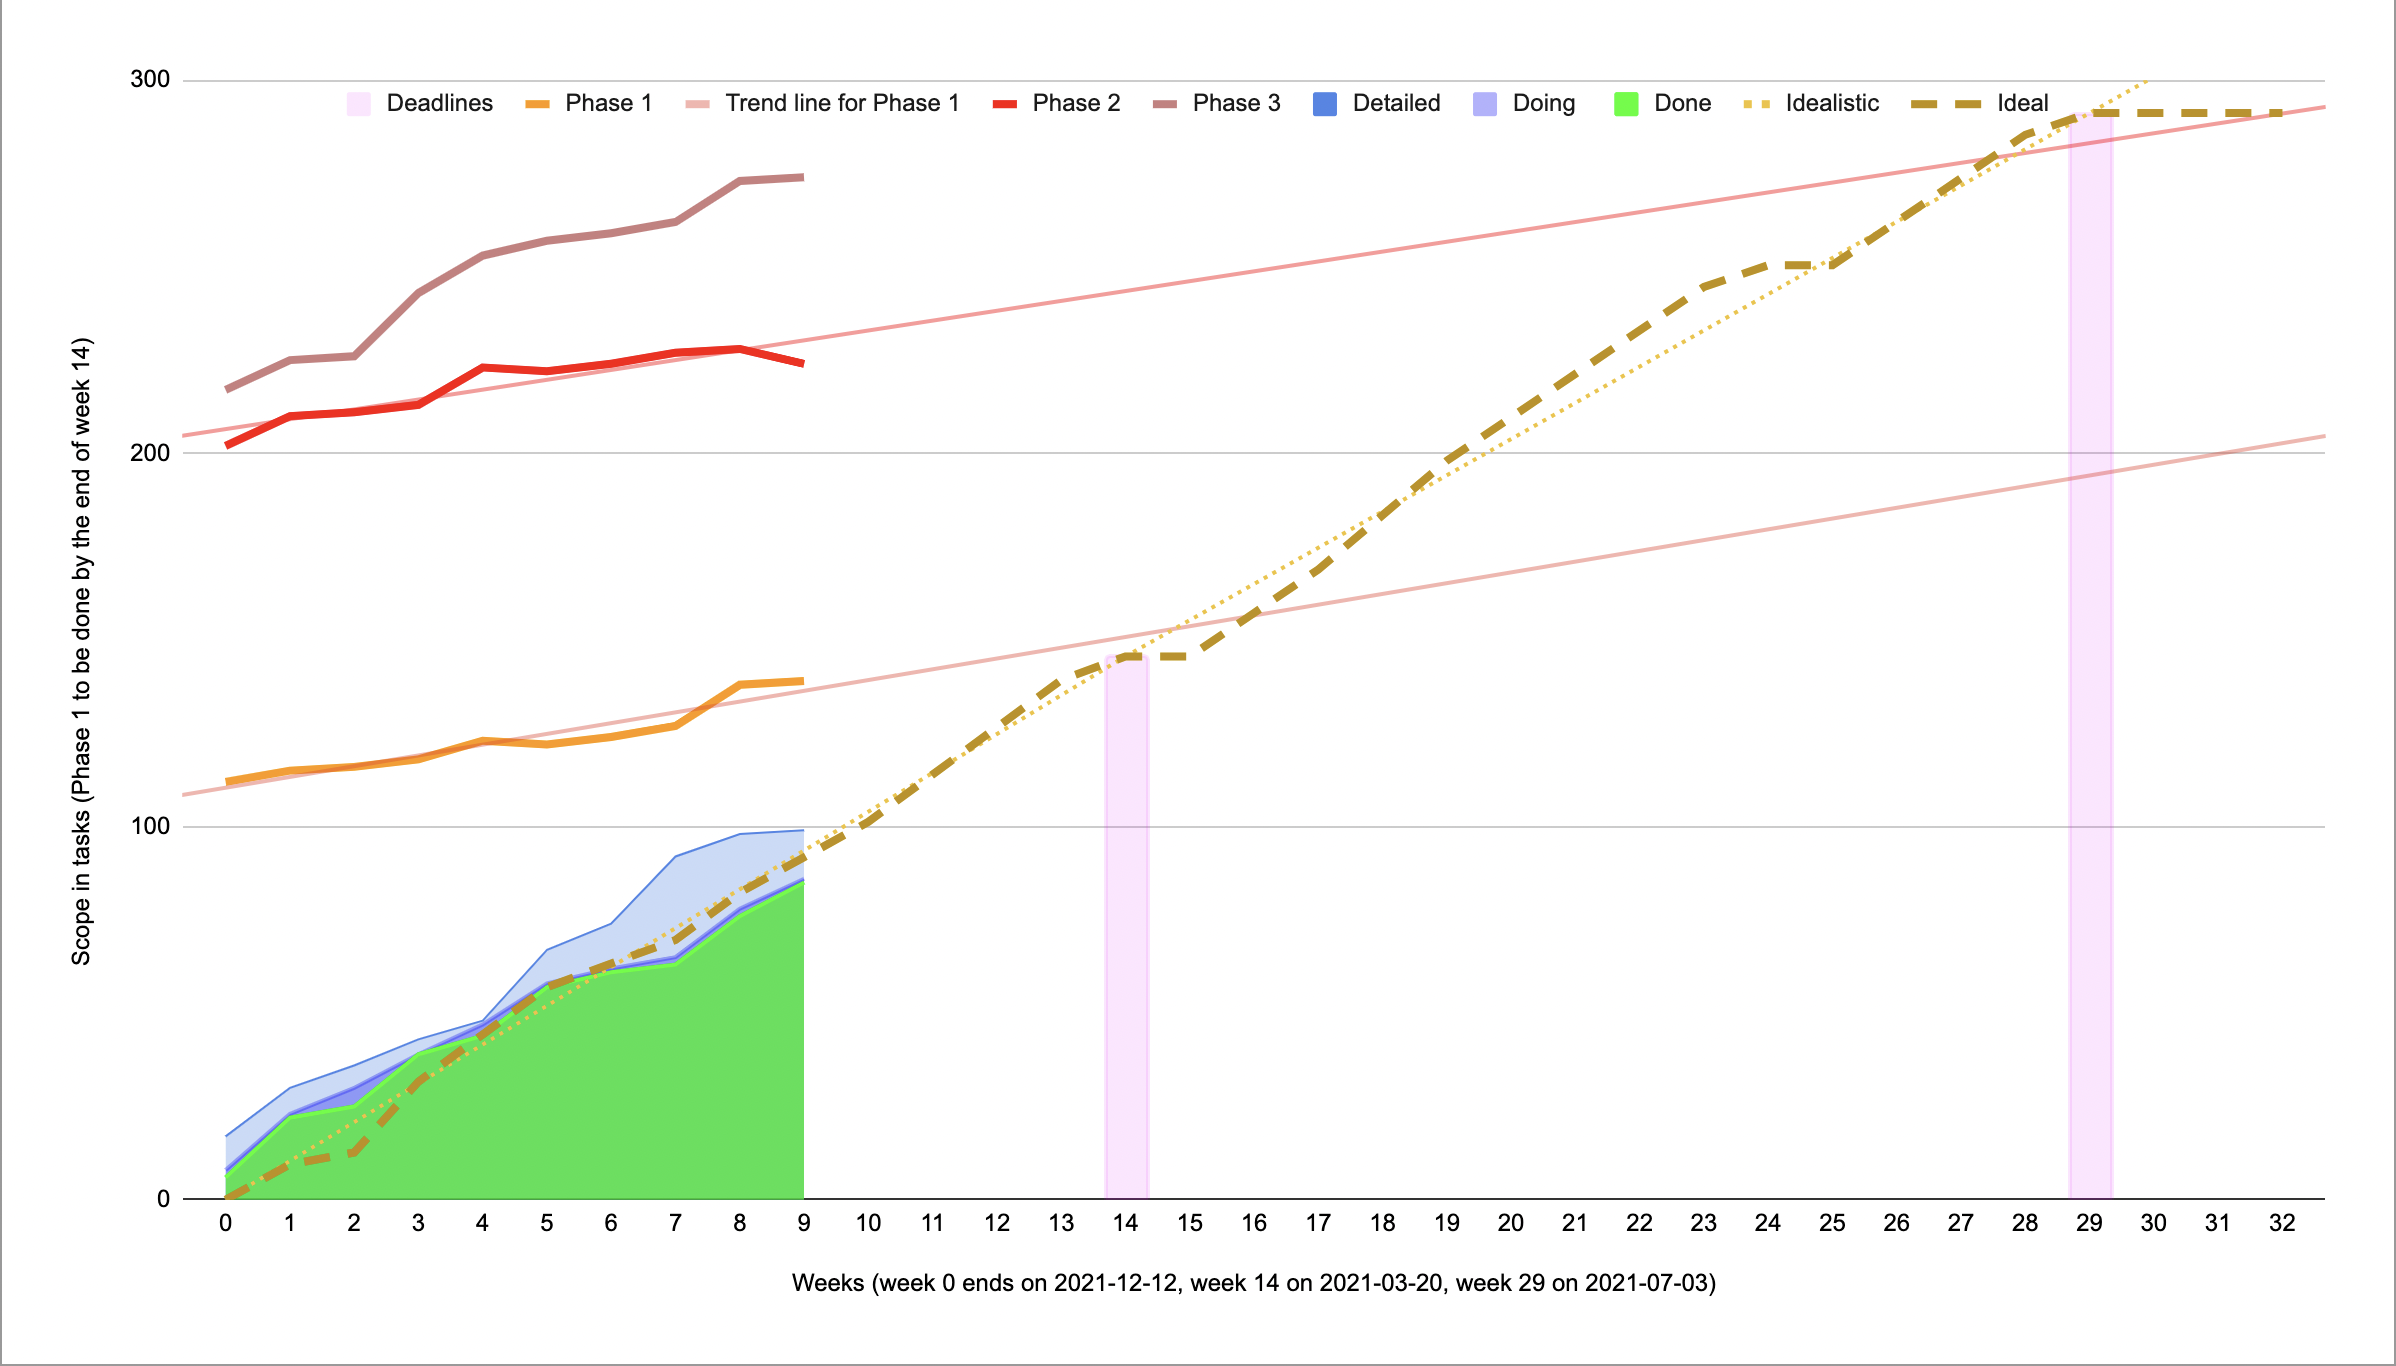
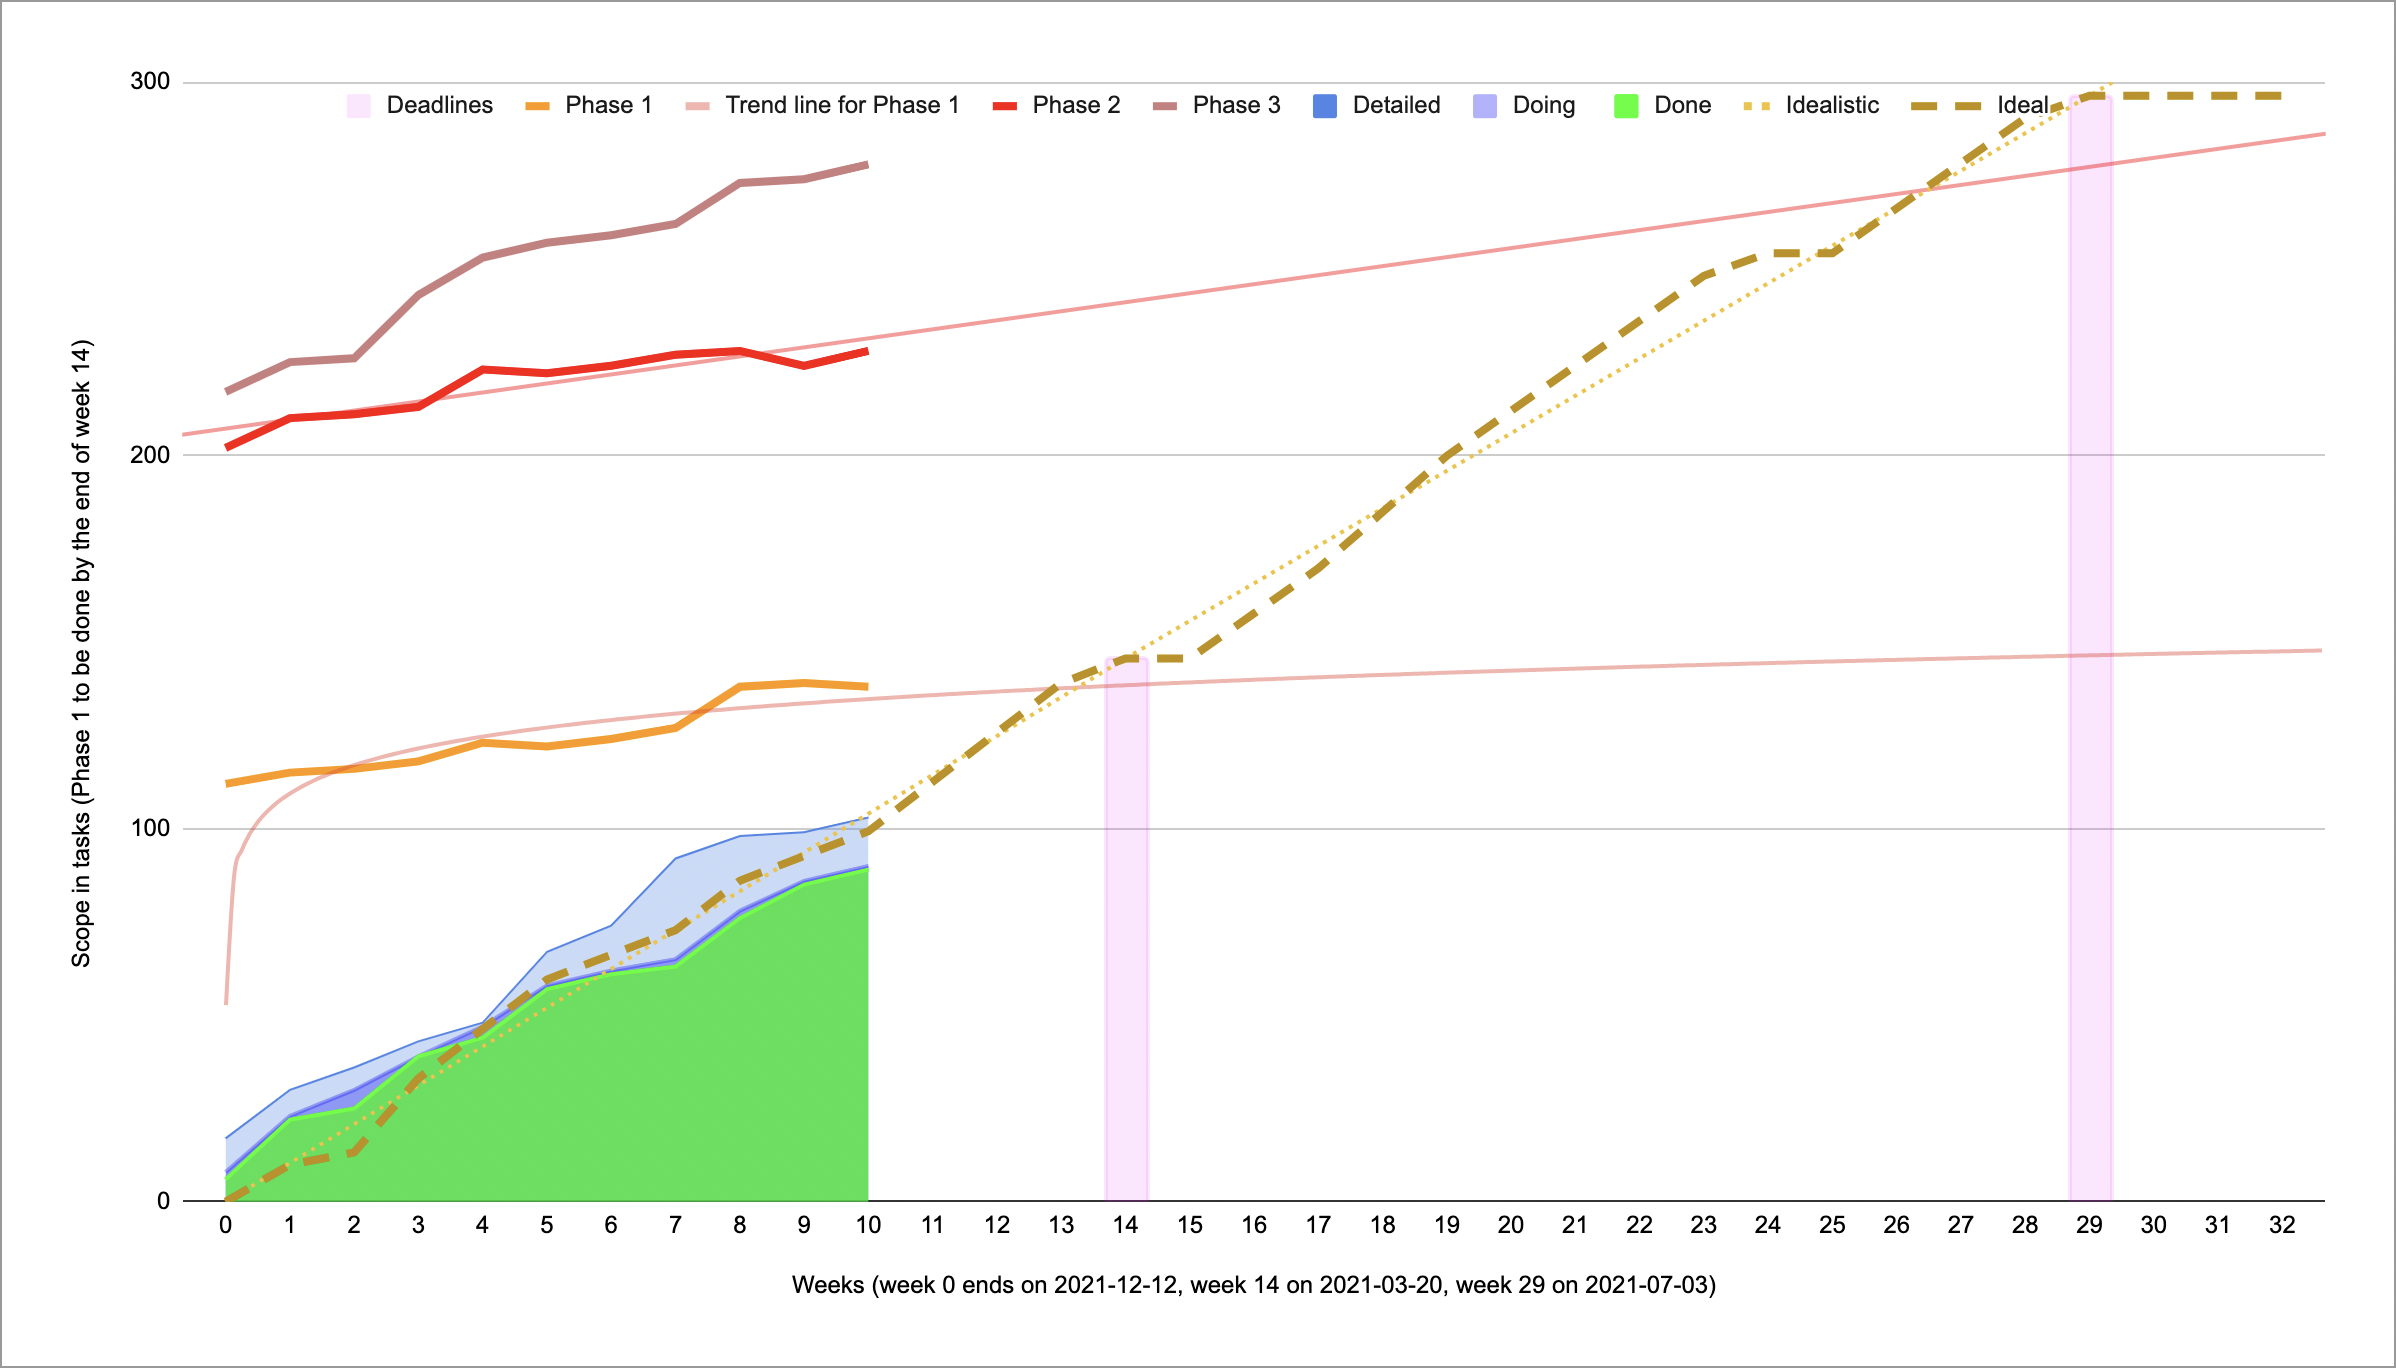
progress report

diff --git a/docs/progress.md b/docs/progress.md
@@ -4,7 +4,7 @@ To monitor and control the progress of the project I'm using an approach based o
 
 [More details](#project-details) below the chart. 
 
-## Week 8 - 2022-01-31 - 2022-02-06
+## Week 10 - 2022-02-14 - 2022-02-21
 
 ![Progress](progress.png)
 

diff --git a/docs/log.md b/docs/log.md
@@ -117,3 +117,9 @@ pass on authorisation with a chain of proofs. Distributed identity(ION is anothe
 ### Features completed: 
 
 * Engagement with x-gov community
+
+## Week 10 - ending 2022-02-21
+
+### Features completed: 
+
+* Public packages - 4
